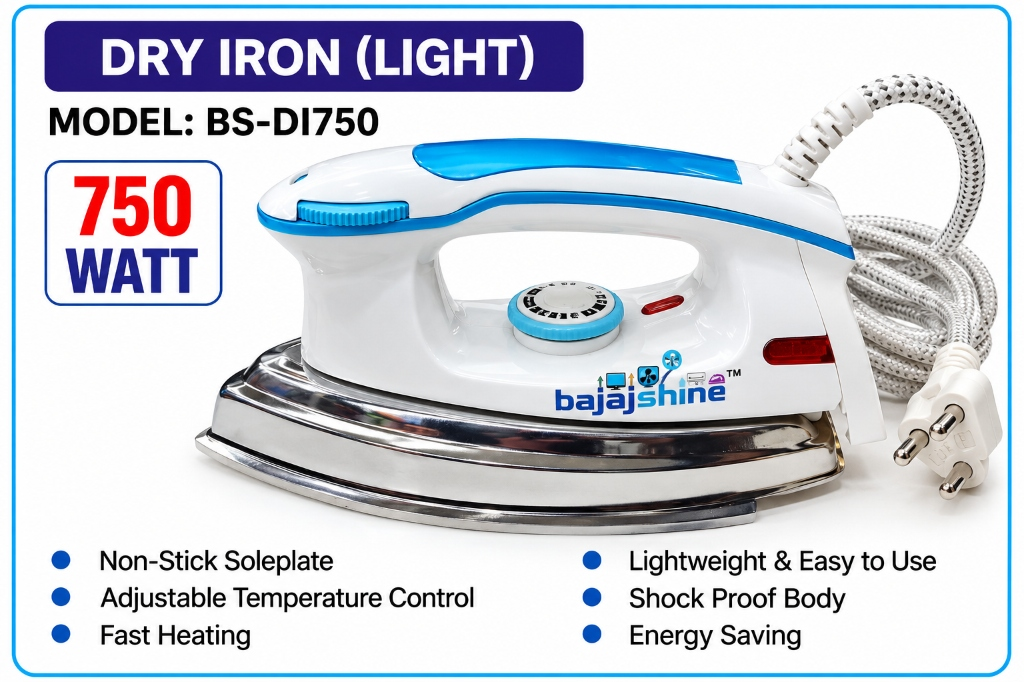
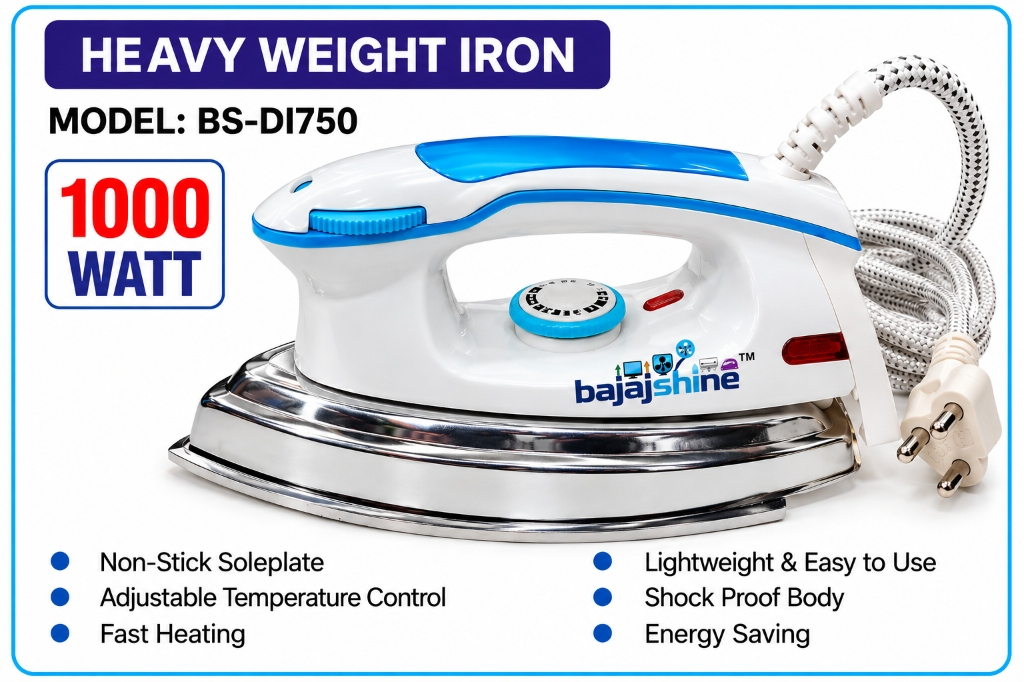
[add]: update

Changed region(s): [[0.0, 0.0, 1.0, 0.9545], [0.0938, 0.8006, 0.4688, 0.9545], [0.0312, 0.9853, 0.9688, 1.0]]

diff --git a/src/App.tsx b/src/App.tsx
@@ -298,15 +298,16 @@ const irons: IronProduct[] = [
   },
   {
     id: 4,
-    name: 'BAJAJSHINE DRY IRON LIGHT - CLASSIC (BS-DI750)',
-    type: 'DRY IRON (LIGHT)',
+    name: 'BAJAJSHINE HEAVY WEIGHT IRON (BS-DI750)',
+    type: 'HEAVY WEIGHT IRON',
     image: IronBSDI750Chrome,
-    shortDesc: '750W Dry Iron Light (BS-DI750) with chrome base, non-stick soleplate, and dual temperature control.',
-    fullDesc: 'The BajajShine Dry Iron Light Classic (Model: BS-DI750) features a durable chrome-finished skirt base with a premium non-stick soleplate. Powered by a 750W fast-heating element, adjustable temperature controls, shock-proof body, and energy-saving technology for smooth and efficient ironing.',
+    shortDesc: '1000W Heavy Weight Iron (BS-DI750) with chrome base, non-stick soleplate, and adjustable temperature control.',
+    fullDesc: 'The BajajShine Heavy Weight Iron (Model: BS-DI750) features a durable chrome-finished base with a premium non-stick soleplate. Powered by a 1000W fast-heating element, adjustable temperature controls, shock-proof body, and energy-saving technology for smooth, powerful, and efficient ironing.',
     features: [
-      '750 Watt Fast Heating',
+      '1000 Watt Fast Heating',
       'Non-Stick Soleplate',
       'Adjustable Temperature Control',
+      'Fast Heating',
       'Lightweight & Easy to Use',
       'Shock Proof Body',
       'Energy Saving'
